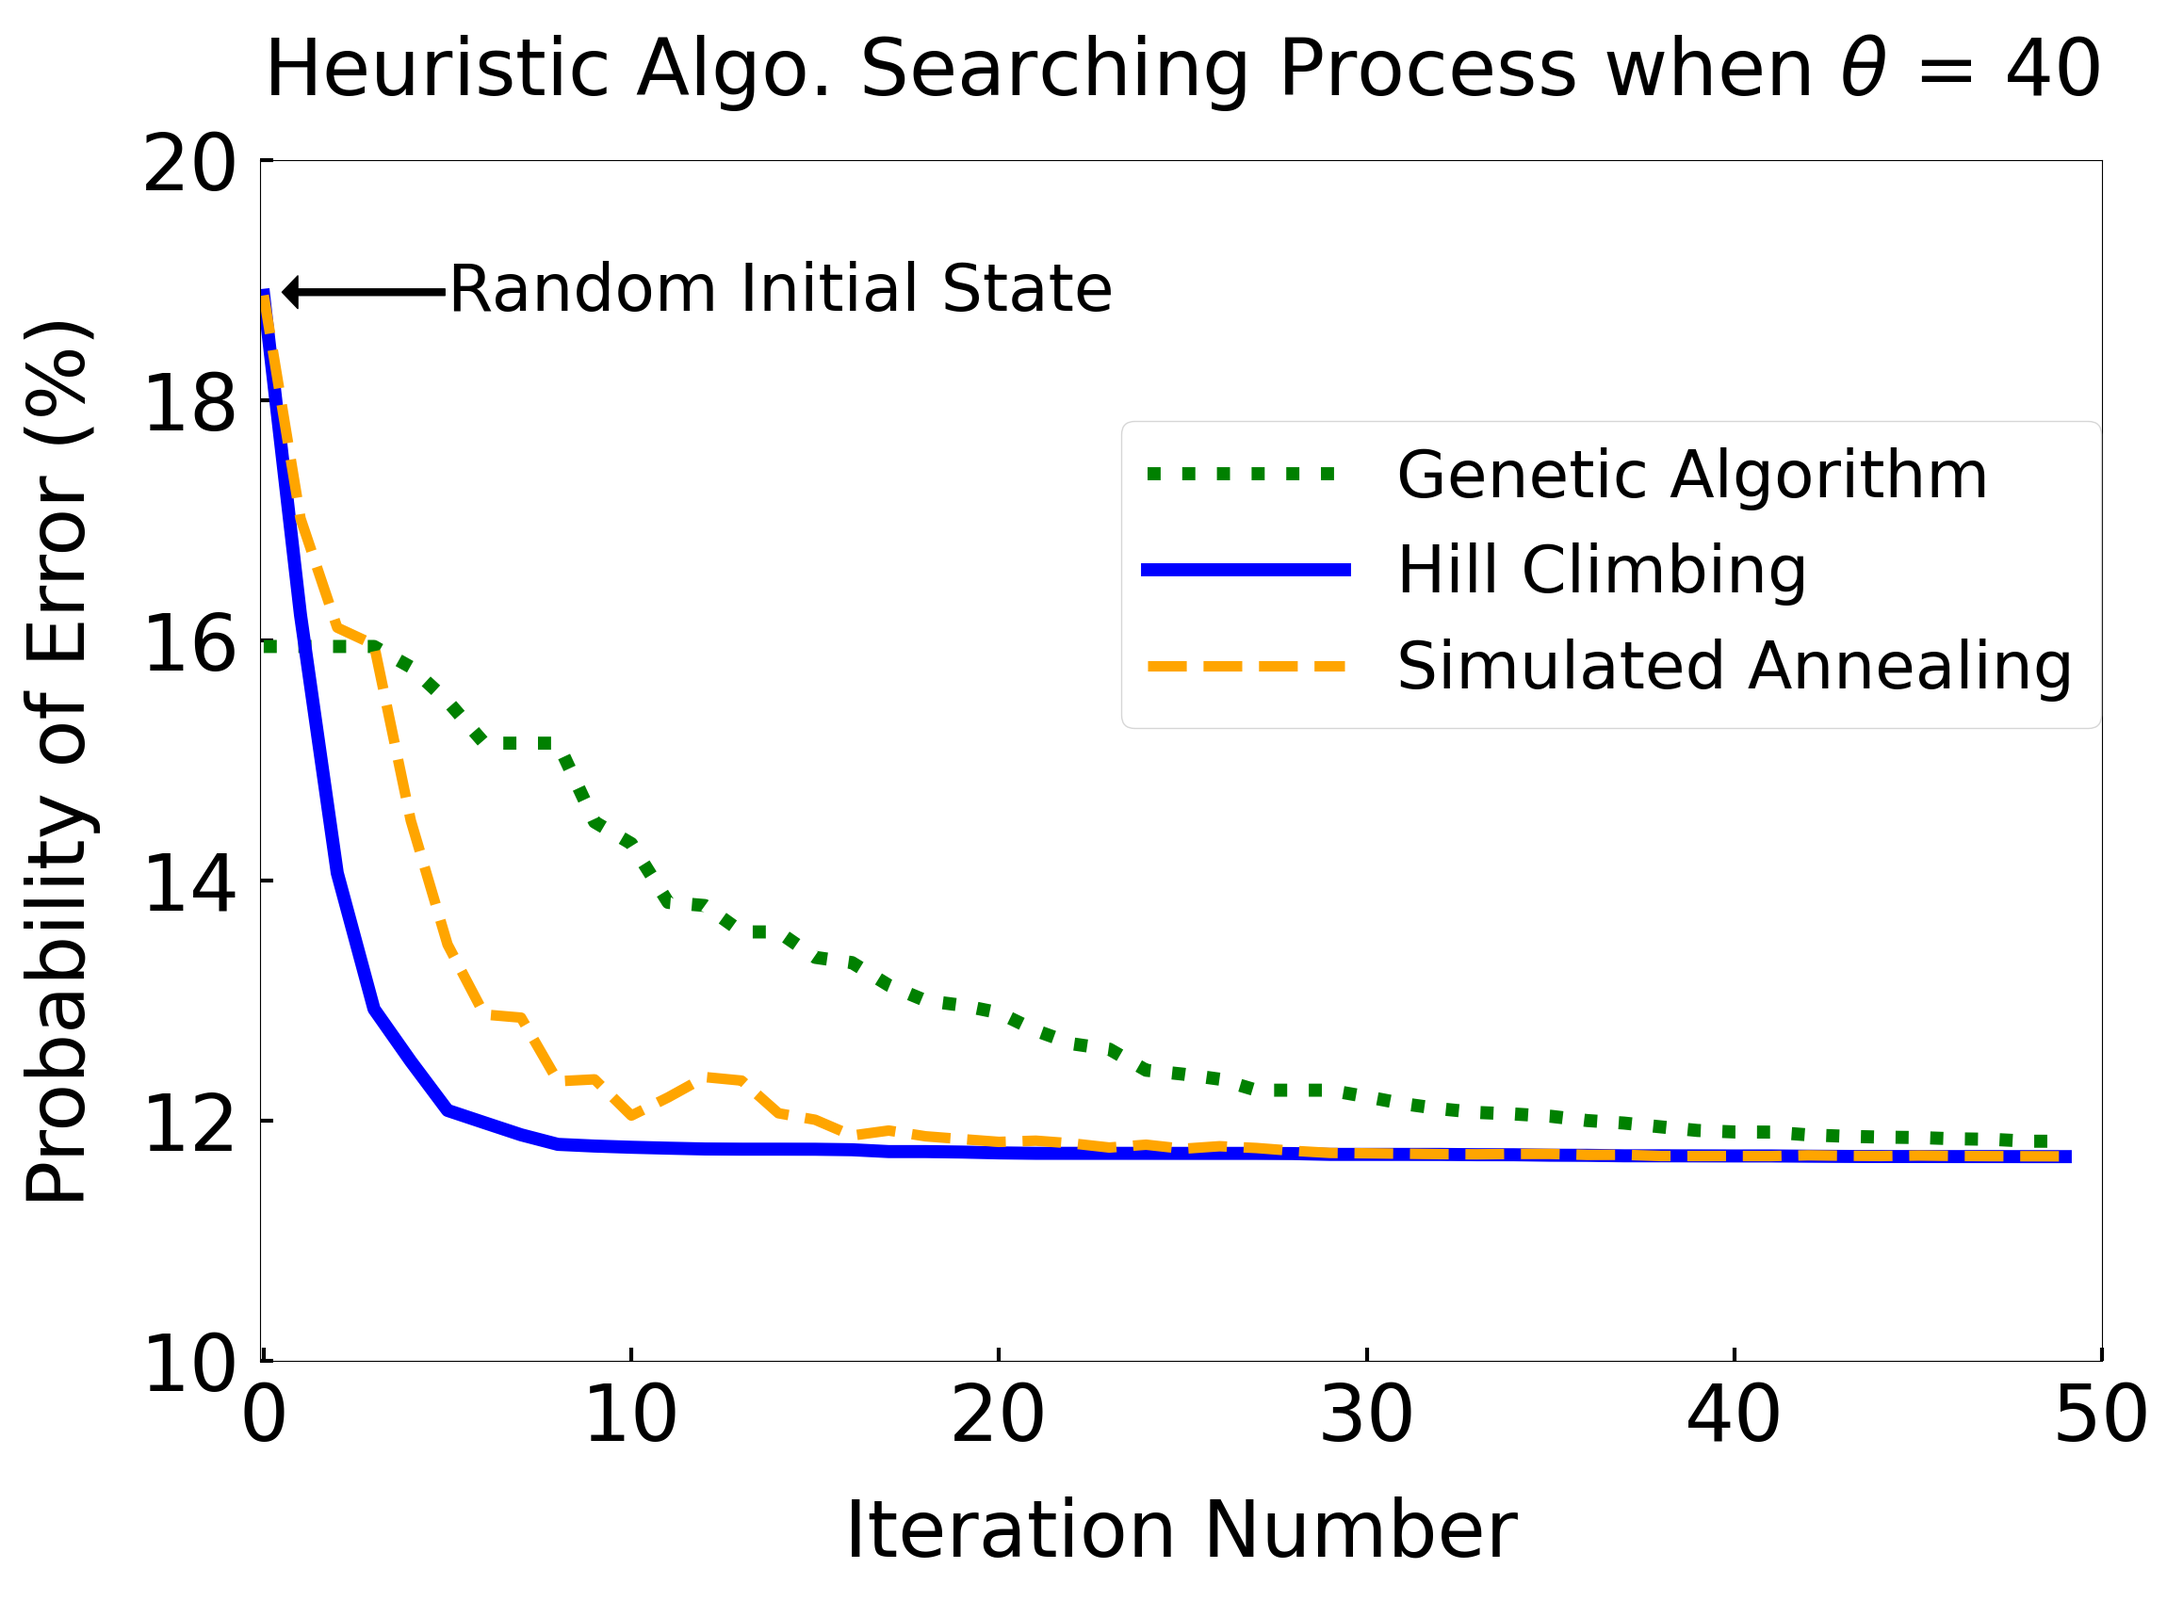
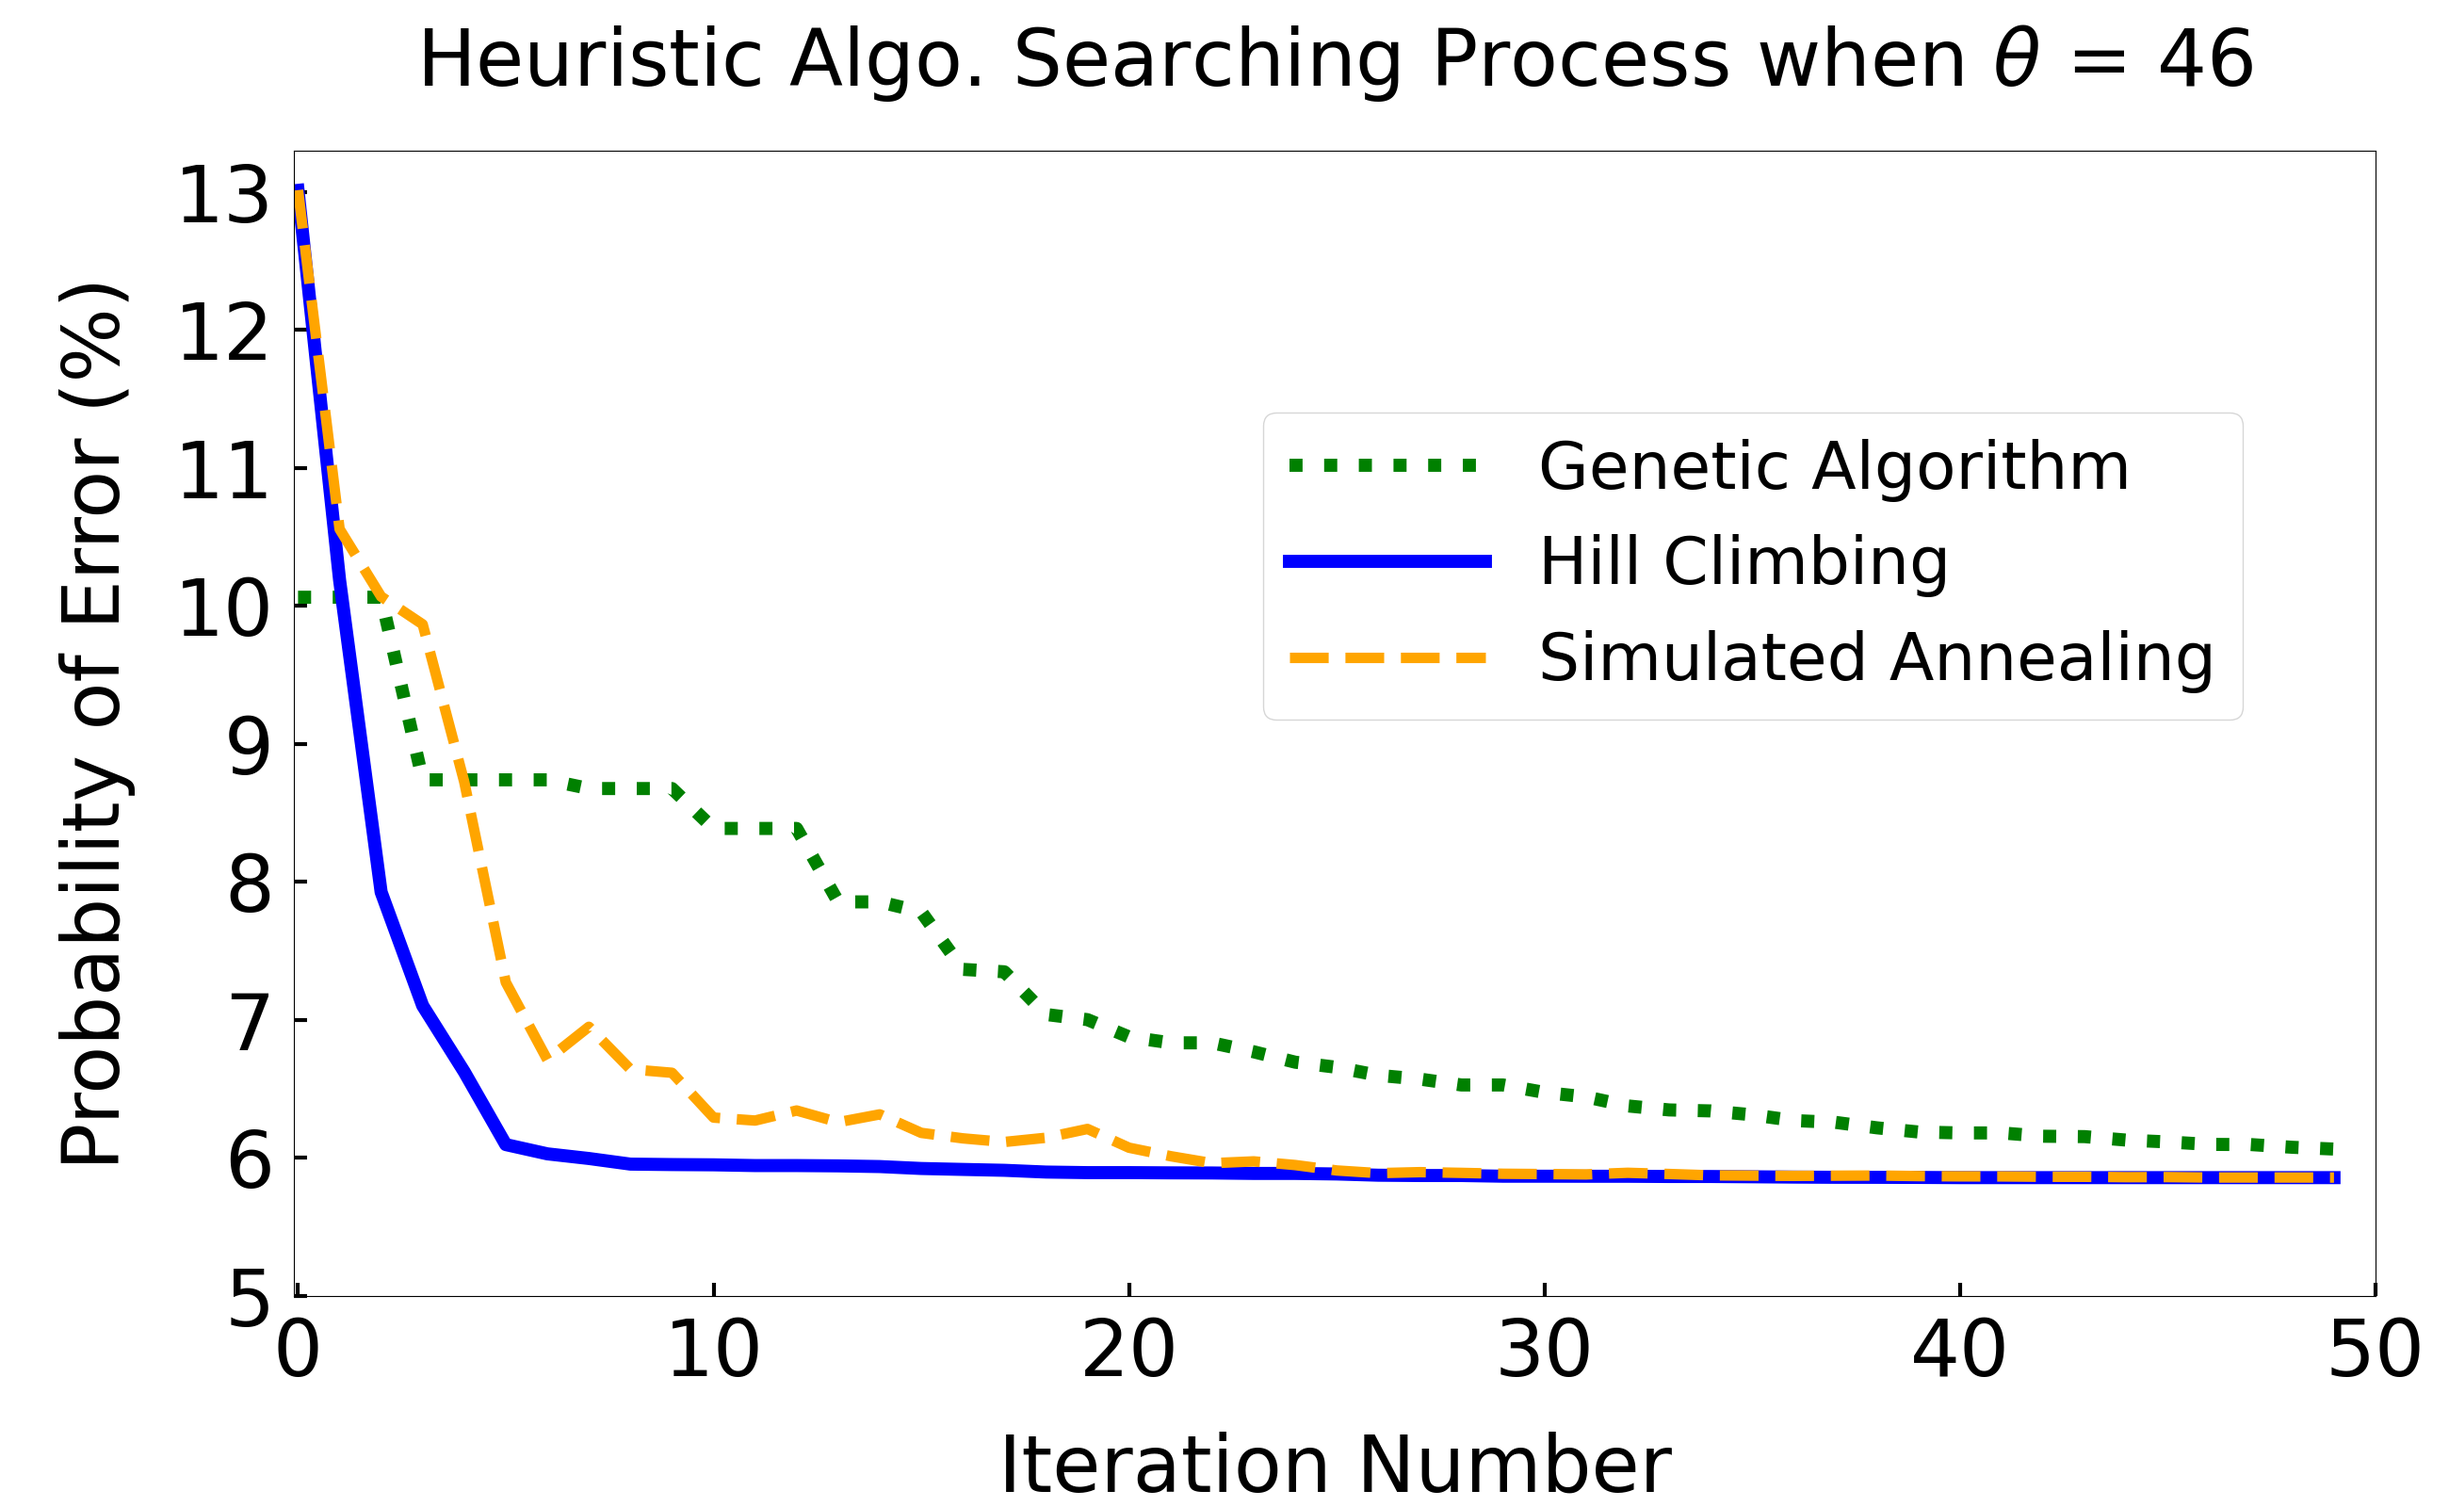
update plots

diff --git a/plot.py b/plot.py
@@ -245,35 +245,37 @@ class Plot:
     @staticmethod
     def methods_similar(data: list, filename: str):
         # data2: varying iteration, 4 sensors, theta = 40 case
-        table2 = {}
-        for _, output_by_methods in data:
+        theta = 46
+        table = {}
+        for myinput, output_by_methods in data:
             for method, output in output_by_methods.items():
-                table2[method] = 1 - np.array(output.scores[:50])  # success --> error
-        Y = table2
+                if myinput.unitary_theta == theta:
+                    table[method] = 1 - np.array(output.scores[:50])  # success --> error
+        Y = table
         
         # plotting
         arrowprops = dict(facecolor='black', width=5, headwidth=25)
         methods = ['Genetic algorithm', 'Simulated annealing', 'Hill climbing']
-        fig, ax = plt.subplots(figsize=(23, 17))
-        fig.subplots_adjust(left=0.12, right=0.97, top=0.9, bottom=0.15)
+        fig, ax = plt.subplots(figsize=(26, 16))
+        fig.subplots_adjust(left=0.12, right=0.97, top=0.9, bottom=0.14)
         
         ax.plot(Y[methods[0]], label=Plot.METHOD[methods[0]], linestyle=Plot.LINE_STYLE[methods[0]], color=Plot.COLOR[methods[0]], linewidth=10)
         ax.plot(Y[methods[2]], label=Plot.METHOD[methods[2]], linestyle=Plot.LINE_STYLE[methods[2]], color=Plot.COLOR[methods[2]], linewidth=10)
         ax.plot(Y[methods[1]], label=Plot.METHOD[methods[1]], linestyle=Plot.LINE_STYLE[methods[1]], color=Plot.COLOR[methods[1]], linewidth=8)
-        ax.legend(fontsize=50, bbox_to_anchor=(0.45, 0.5), handlelength=3)
+        ax.legend(fontsize=50, bbox_to_anchor=(0.45, 0.8), handlelength=3)
         xticks = [i for i in range(0, 51, 10)]
         ax.set_xticks(xticks)
         ax.set_xticklabels([f'{x}' for x in xticks])
-        yticks = [0.1, 0.12, 0.14, 0.16, 0.18, 0.2]
+        yticks = [0.05, 0.06, 0.07, 0.08, 0.09, 0.1, 0.11, 0.12, 0.13]
         ax.set_yticks(yticks)
         ax.set_yticklabels([f'{int(y * 100)}' for y in yticks])
         ax.tick_params(axis='x', direction='in', length=10, width=3, pad=15)
         ax.tick_params(axis='y', direction='in', length=10, width=3, pad=15)
-        ax.set_title('Heuristic Algo. Searching Process when $\\theta$ = 40', fontsize=60, pad=50)
+        ax.set_title('Heuristic Algo. Searching Process when $\\theta$ = 46', fontsize=60, pad=50)
         ax.set_xlabel('Iteration Number', labelpad=30)
         ax.set_xlim([-0.1, 50])
         ax.set_ylabel('Probability of Error (%)', fontsize=60, labelpad=30)
-        ax.set_ylim([0.1, 0.2])
+        ax.set_ylim([0.05, 0.133])
         ax.annotate('Random Initial State', xy=(0.5, 0.189), xytext=(5, 0.189), arrowprops=arrowprops, fontsize=50, va='center')
         fig.savefig(filename)
 
@@ -378,14 +380,14 @@ class Plot:
 
         X = np.linspace(0, 0.99, 100)
         X = np.append(X, [0.995, 0.998, 0.999, 0.99999])
-        n=2
-        ax.plot(X, data[f'n{n}'], label='2 Sensors')
-        n=3
-        ax.plot(X, data[f'n{n}'], label='3 Sensors')
-        n=4
-        ax.plot(X, data[f'n{n}'], label='4 Sensors')
         n=5
-        ax.plot(X, data[f'n{n}'], label='5 Sensors')
+        ax.plot(X, data[f'n{n}'], label='5 States')
+        n=4
+        ax.plot(X, data[f'n{n}'], label='4 States')
+        n=3
+        ax.plot(X, data[f'n{n}'], label='3 States')
+        n=2
+        ax.plot(X, data[f'n{n}'], label='2 States')
         ax.legend(fontsize=50, edgecolor='black')
         yticks = [0, 0.1, 0.2, 0.3, 0.4, 0.5, 0.6, 0.7, 0.8]
         ax.set_yticks(yticks)
@@ -400,8 +402,8 @@ class Plot:
         ax.tick_params(axis='y', direction='in', length=10, width=3, pad=15)
         ax.set_xlabel('$x$ (such that $\\forall i \\neq j$: $\langle \phi_i \| \phi_j \\rangle = x$)', labelpad=22)
         ax.set_ylabel('Probability of Error (%)', labelpad=30, fontsize=58)
-        ax.set_title('$Lemma\ 3$: $PoE$ Decrease with the Decrease in $x$', pad=40, fontsize=58)
-        ax.invert_xaxis()
+        ax.set_title('$Lemma\ 3$: $PoE$ Increase with the Increase in $x$', pad=40, fontsize=58)
+        ax.grid()
         fig.savefig(filename)
 
 
@@ -618,7 +620,6 @@ class Plot:
         fig.savefig(filename)
 
 
-
     @staticmethod
     def symmetry_varymethod_poe(data: dict, filename: str):
         # prepare data
@@ -683,7 +684,7 @@ def vary_theta():
 
 def methods_similar():
     # logs1 = ['result/12.22.2022/varying_theta_4sensors', 'result/12.26.2022/compare_methods_4sensors']
-    logs2 = ['result/12.23.2022/compare_methods_4sensors']
+    logs2 = ['result/12.26.2022/compare_methods_4sensors']
     # data1 = Logger.read_log(logs1)
     data2 = Logger.read_log(logs2)
     filename = 'result/12.26.2022/compare_methods_similar.png'
@@ -739,9 +740,8 @@ def symmetry():
 
 if __name__ == '__main__':
     # vary_theta()
-    # methods_similar()
+    methods_similar()
     # lemma2()
     # lemma3()
     # conjecture()
-    symmetry()
-    
+    # symmetry()

diff --git a/runner.py b/runner.py
@@ -65,19 +65,20 @@ if __name__ == '__main__':
     # base_args = ["-us", "2", "-m", "Genetic algorithm", "Guess", "-mi", "100", "-ps", "32"]
     # base_args = ["-us", "2", "-m", "Particle swarm", "Guess", "-mi", "100", "-ps", "32"]
 
-    base_args = ["-us", "2", "-m", "Hill climbing", "-mi", "100"]
+    # base_args = ["-us", "2", "-m", "Hill climbing", "-mi", "100"]
+    base_args = ["-us", "2", "-m", "Genetic algorithm", "-mi", "100", "-ps", "64"]
     # base_args = ["-us", "2", "-m", "Hill climbing", "Simulated annealing", "Genetic algorithm", "-mi", "100", "-ps", "32"]
     # base_args = ["-us", "2", "-m", "Simulated annealing", "-mi", "100", "-rn", "True"]
 
-    num_sensor  = 3
+    num_sensor  = 4
     equal       = True
     eval_metric = 'min error'  # 'min error' or 'unambiguous' or 'computational'
-    output_dir  = 'result/5.22.2023'
-    output_file = 'symmetry_thetas'
-    # thetas      = [i for i in range(46, 47)]
-    thetas      = [86]
+    output_dir  = 'result/12.26.2022'
+    output_file = 'compare_methods_4sensors'
+    thetas      = [i for i in range(46, 47)]
+    # thetas      = [86]
     # start_seed  = list(range(5))
-    start_seed  = [1]
+    start_seed  = [0]
 
     ps = []
     tasks = []
